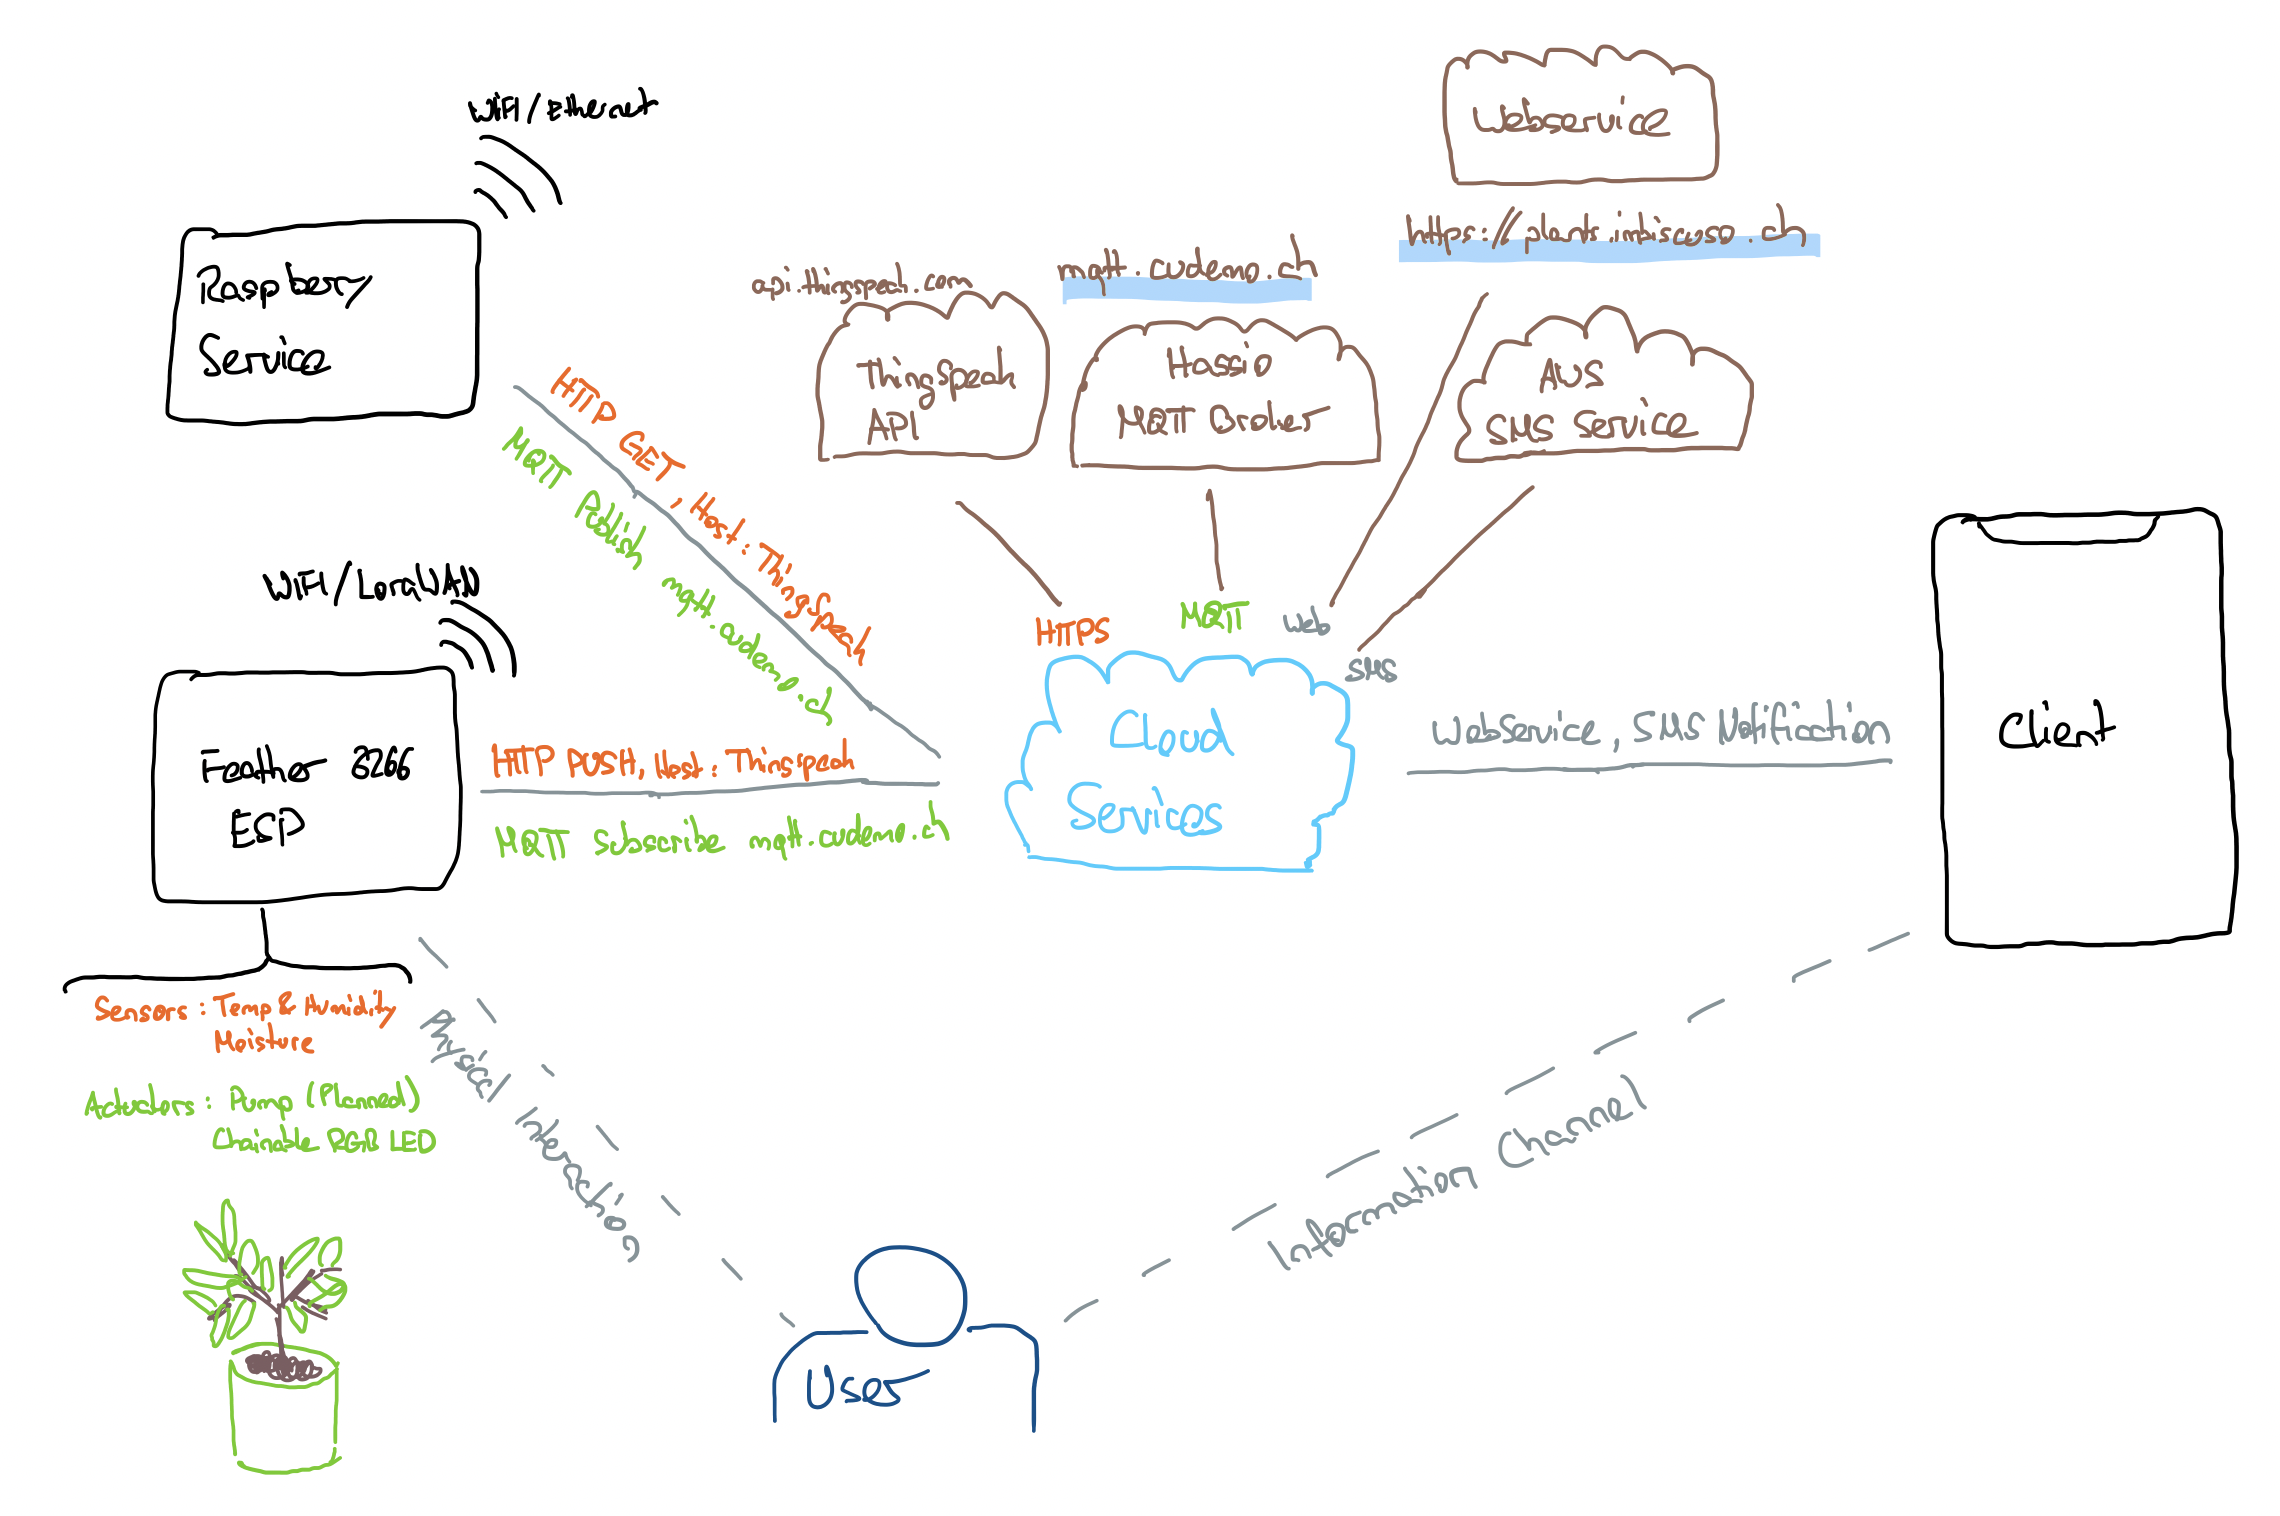
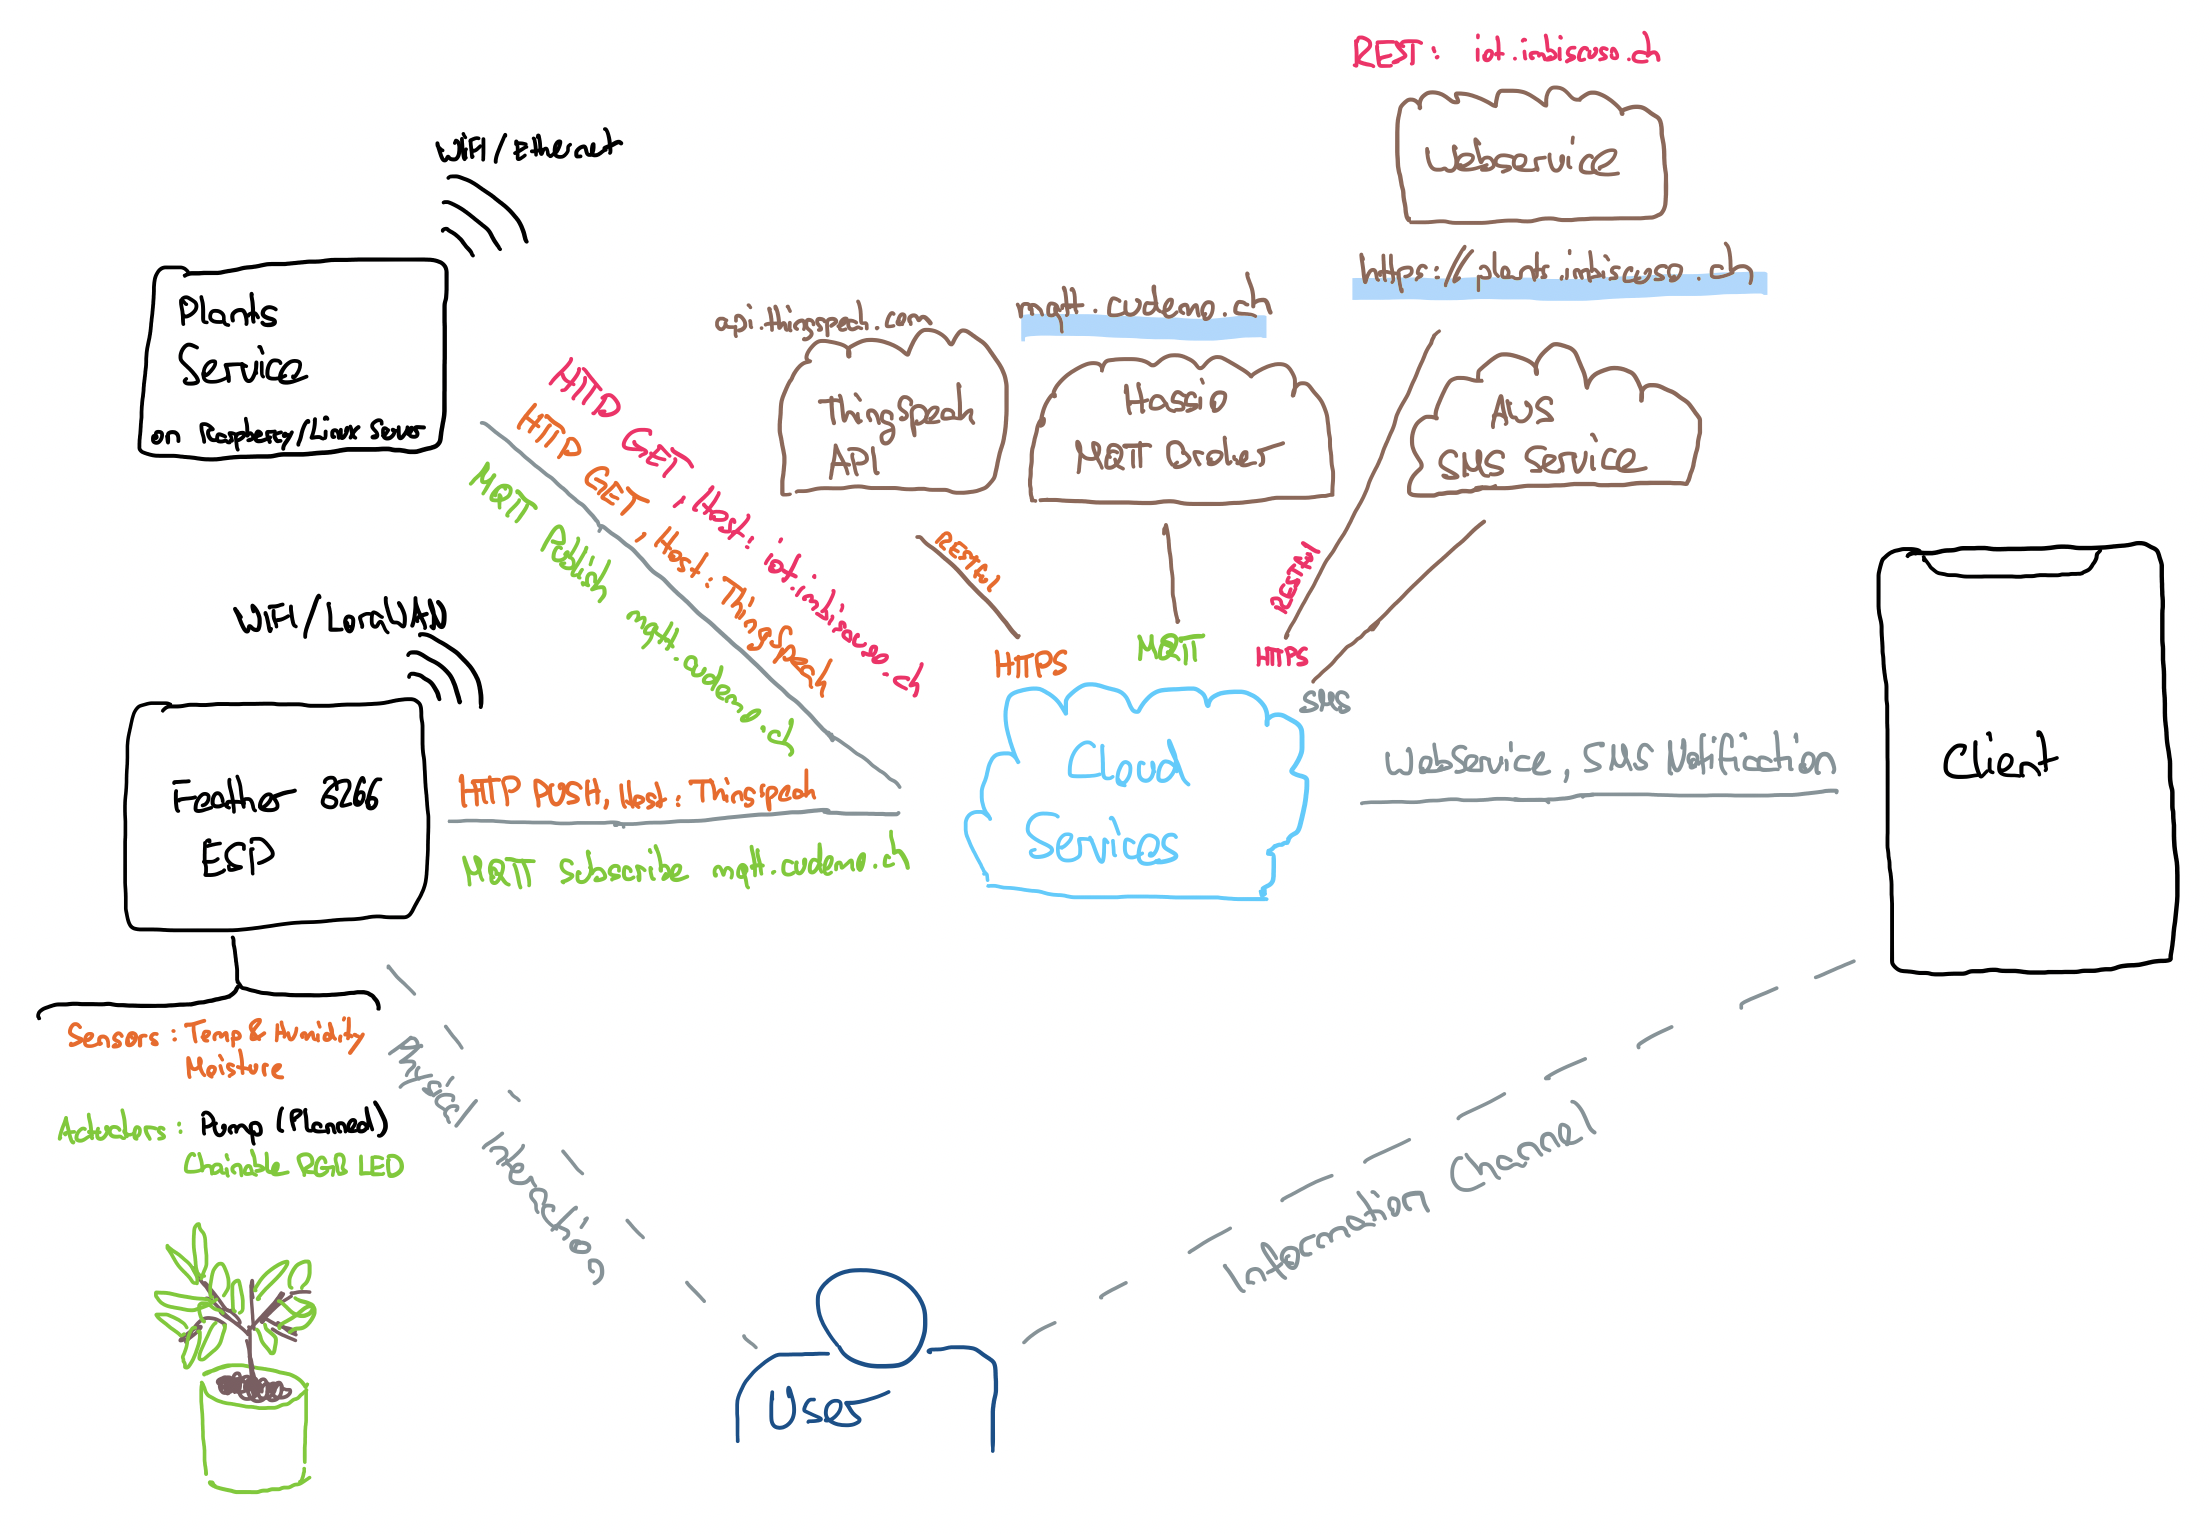
updated readme, reference model

diff --git a/README.md b/README.md
@@ -19,7 +19,7 @@ This project is part of the [IoT Engineering](../../../fhnw-iot) course.
 The following deliverables are mandatory.
 
 ### Source code
-Source code consists of: Arduino, Java Service and Angular Webserver
+Source code consists of: Arduino device for sensor information, Java Service running on Tomcat with REST API and Angular Webserver https://plants.imbiscuso.ch
 
 [PlantsFieldSensor for ESP8266](esp/PlantsFieldSensor/PlantsFieldSensor.ino)
 
@@ -27,16 +27,31 @@ Source code consists of: Arduino, Java Service and Angular Webserver
 
 [Plants Webservice used on Webserver](/connected-plants-web/src)
 
-Furthermore, we implementen an own MQTT Broker on a Raspberry Pi 3+, running hassio Home Assistant and DuckDNS Service for serving mqtt://mqtt.cudemo.ch. The MQTT Service has been setup to only allow authenticated connections. 
+Furthermore, we implemented an own MQTT Broker on a Raspberry Pi 3+, running hassio Home Assistant and DuckDNS Service for serving mqtt://mqtt.cudemo.ch:16290. The MQTT Service has been setup to only allow authenticated connections. User: esp / raspberry, password: iotmqtt
 
-### Reference model (has to be updated)
+### Reference model / Domain overview
 
 ![Reference Model, Connected Plants](Images/Plants_ReferenceModel.png)
 
 
 ##### Setup software
-* Edit [secrets.h](esp/PlantsFieldSensor/secrets.h) to set your ThingSpeak API Keys and WIFI Settings 
+* ESP8266
 
+1) Edit [secrets.h](esp/PlantsFieldSensor/secrets.h) to set your ThingSpeak API Keys and WIFI Settings 
+2) Attach sensors and actuator to ESP8266 
+* Sensors and Actuators:
+
+Type | Name | Pin ESP8266
+--- | --- | ---
+Sensor | DHT11 Temperature & Humidity Sensor | D2 -> 2
+Sensor | Grove Moisture Sensor | A0
+Actuator | Chainable RGB LED | D4, D5 -> 0, 15
+
+3) Attach to energy source and check ThingSpeak. Otherwise enable debug mode on ESP source-code
+
+* Plants Service (can be run on Raspberry)
+
+###TODO IMBISCUSO
 
 ### Presentation
 4-slide presentation, PDF format, committed to (this) project repo.
